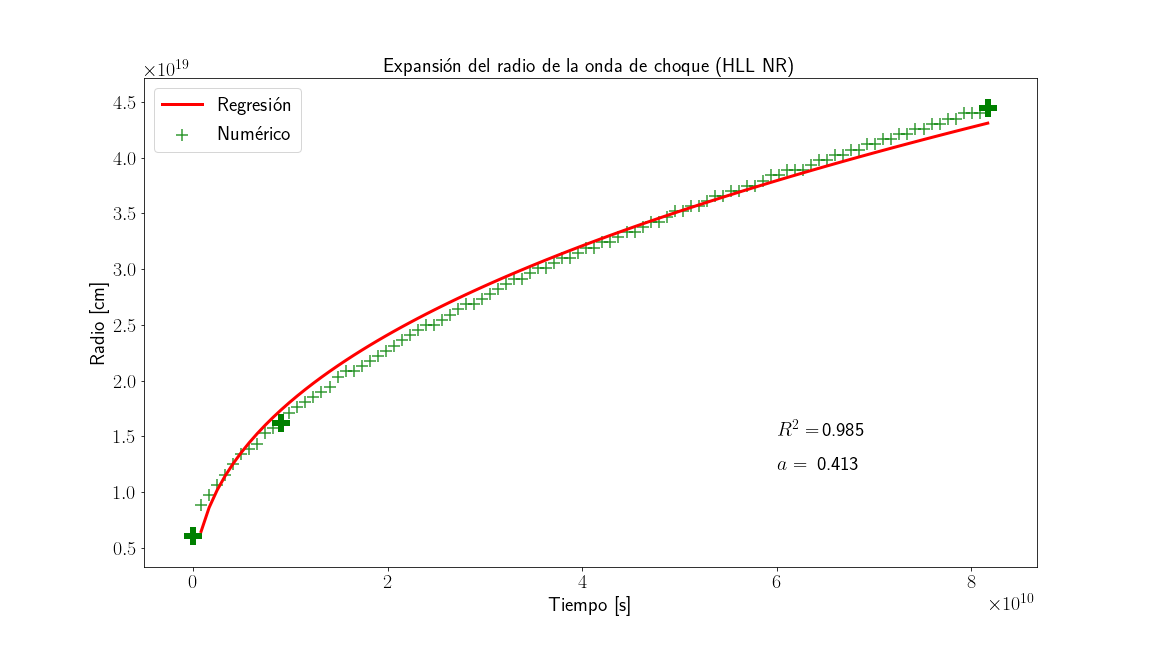
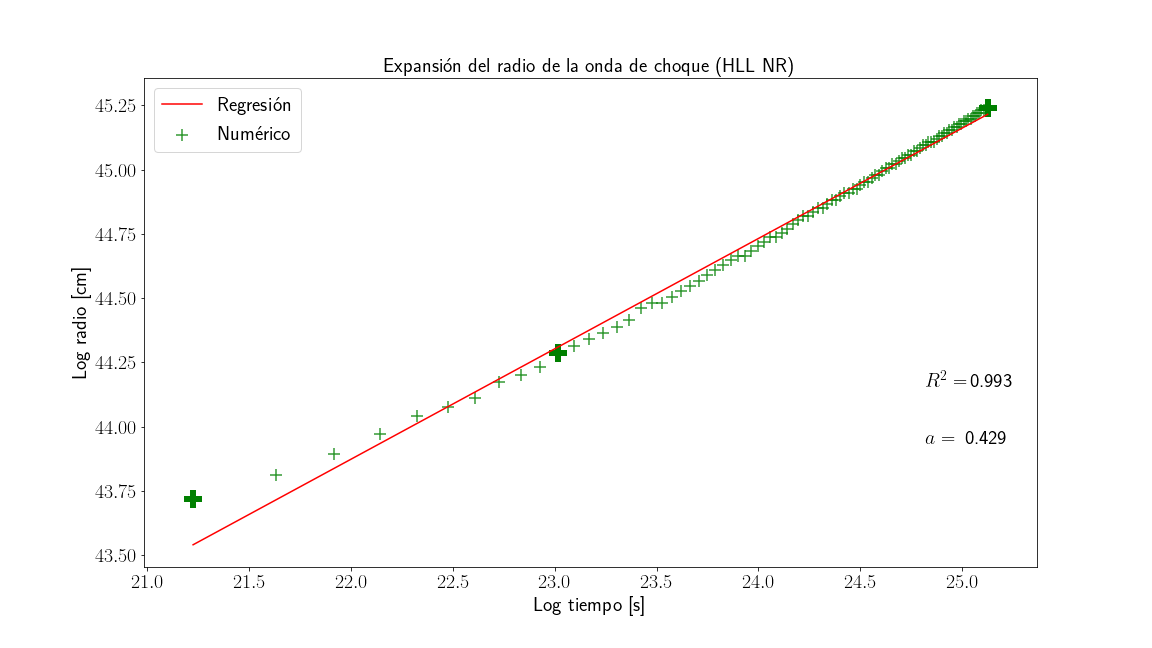
Correción de la mayoría de dudas que tenía así como el cambio de gráficas logaritmicas de sedov

diff --git a/main.tex b/main.tex
@@ -401,8 +401,8 @@ a presión constante $C_p$ y calor específico a volumen constante $C_v$. Lo den
 Los métodos que emplearon fueron el método de HLL y HLLC (para más información ver la sección \ref{secc:HLL}). El tiempo de integración fue de $t = 80$ con condiciones de frontera \emph{outflow} excepto donde se 
 inyecta el jet. La velocidad de avance promedio  del jet fue de 0.39 con una resolución de 240$\times$700 píxeles. 
 
-La figura de arriba de \ref{fig:jet_mignone} muestra la morfología del jet a t=40, mientras que la de abajo a t=80. En ambas figuras el panel de arriba (i.e. el dominio positivo en Y) muestra el 
-caso cuando la simulación se hizo utilizando el esquema HLLC. Por otro lado, el panel del abajo (i.e. el dominio negativo en Y) muestra el caso cuando se usó el esquema HLL.
+El panel superior de la Figura \ref{fig:jet_mignone} muestra la morfología del jet a t=40, mientras que la de abajo a t=80. En la parte superior de ambos páneles (i.e. el dominio positivo en Y) muestra el 
+caso cuando la simulación se hizo utilizando el esquema HLLC. Por otro lado, la parte de abajo (i.e. el dominio negativo en Y) muestra el caso cuando se usó el esquema HLL.
 \begin{figure}
   \begin{center}
     \includegraphics[width=0.5\textwidth]{Figuras/capitulo_1/jet_mignone.png}
@@ -898,8 +898,9 @@ los valores de salida se reasignan a otras llamadas \emph{qpp}. Se tienen que re
 \end{lstlisting}
 
 \noindent La subrutina que se mencionan en esta sección recibirá las variables conservadas
-y devolverá las primitivas. La subrutina \emph{newrap} se usará en particular 
-(ver apéndice \ref{ap_newrap}) para resolver la ecuación \ref{eq_Newton_Raphson}.
+y devolverá las primitivas. La subrutina \emph{newrap}  
+se usará en particular 
+(ver apéndice \ref{ap_newrap}) para resolver la ecuación \ref{eq_Newton_Raphson}.  Las variables primitivas en el modúlo relativista fueron encontradas siguiendo la misma metodología que el código Mezcal \citep{Colle2012}.
 
 \begin{lstlisting} [frame=single]
   
@@ -2338,22 +2339,22 @@ la densidad decae a $\rho \approx 10^{-24} \text{g} \, \text{cm}^{-3}$.
 \end{figure}
 
 Para verificar que el código HD estaba reproduciendo correctamente la solución analítica de Sedov-Taylor se comprobó que el radio de la onda de expansión de la simulación siguiese la solución analítica 
-dada en la ecuación \ref{eq_Radio_proporcional}, esto es, que el radio de la onda creciera como $r\propto t^{2/5}$. La Figura \ref{fig:Expansion_HLL_NR} muestra la evolución del radio de la onda en función del tiempo (verde) así como 
-la curva que mejor se le ajusta (rojo). La curva que mejor se ajusta a los datos resultó ser $r(t) = t^{0.413}$. El coeficiente de determinación fue $R^2= 0.985$ lo cual nos indica que el modelo se ajusta muy bien a 
+dada en la ecuación \ref{eq_Radio_proporcional}, esto es, que el radio de la onda creciera como $r\propto t^{2/5}$. La Figura \ref{fig:Expansion_HLL_NR} muestra la evolución logaritmica del radio de la onda en función del tiempo (verde) así como 
+la curva que mejor se le ajusta (rojo). La curva que mejor se ajusta a los datos resultó ser $\log(r(t))= 0.429t+34.43$ lo que nos indica que el radio crece como $r(t) \propto t^{0.429}$. El coeficiente de determinación fue $R^2= 0.993$ lo cual nos indica que el modelo se ajusta muy bien a 
 los datos de la simulación. Al comparar nuestro modelo con la teoría podemos notar una discrepancia del 5 \%, y por ende podemos concluir que el problema de Sedov-Taylor fue resuelto correctamente por el código HD.
 
 \begin{figure}
   \centering
   \includegraphics[width=1\textwidth]{./Figuras/capitulo_3/prueba_2d_newtoniana/Expansion_HLL_NR_res_1000.png}
-    \caption{Crecimiento del radio de la onda de choque en función del tiempo. Las cruces verdes muestran la evolución del radio de la onda de choque en la simulación. La línea sólida roja muestra la curva que mejor 
-    se ajusta a los datos: $r(t) = t^{0.413}$ (con un coeficiente de determinación $R^2= 0.985$). Las cruces más remarcadas corresponden a los radios que se muestran en la Figura \ref{fig:prueba_2d_newtoniana}.}
+    \caption{Crecimiento logarítmico del radio de la onda de choque en función del tiempo. Las cruces verdes muestran la evolución del radio de la onda de choque en la simulación. La línea sólida roja muestra la curva que mejor 
+    se ajusta a los datos: $\log(r(t))= 0.429t+34.43$ (con un coeficiente de determinación $R^2= 0.993$). Las cruces más remarcadas corresponden a los radios que se muestran en la Figura \ref{fig:prueba_2d_newtoniana}.}
     \label{fig:Expansion_HLL_NR}
 \end{figure}
 
 \subsection{Caso relativista} \label{subsec:caso_relativista_2d}
 Para verificar que el código RHD funciona correctamente en 2D se hizo una prueba de una onda de choque relativista en 2 dimensiones y se verificó que se comporta como la solución analítica auto-similar de 
 una prueba de un tubo de choque bidimensional. El dominio espacial fue $x, y \in [0,1]\times[0,1] \, \text{cm}$, el radio de la 
-onda $r = 0.5 \, \text{cm}$. Se consideró un índice adiabático $\Gamma = 4/3$, y una resolución de 1000x1000 píxeles. Los valores que hay dentro de la onda bidimensional, así como 
+onda $r = 0.5 \, \text{cm}$. Se consideró un índice adiabático $\Gamma = 4/3$, y una resolución de 1000$\times$1000 píxeles. Los valores que hay dentro de la onda bidimensional, así como 
 los que el medio ambiente, se muestran en el cuadro \ref{Cuadro_parametros_choque_2D}. 
 \begin{table}[htbp]
   \begin{center}
@@ -2828,11 +2829,11 @@ código en su versión actual gasta muchos recursos. Las posibles mejorías se l
     y que estar resolviendo todo el dominio computacional con una resolución sumamente fina genera un alto costo computacional, es necesaria la implementación de una malla cuya resolución se adapte al problema 
     (i.e. resolución muy fina en donde haya discontinuidades, ondas de choques, turbulencia; y resolución poco fina en el resto del dominio). 
 
-    \item \textbf{Computo en paralelo}: Algo que realmente podría hacer más  rápido el código es hacerlo paralelo, es decir, que se puedan hacer varios procesos al mismo tiempo y no, necesariamente hacerlos 
+    \item \textbf{Computo en paralelo}: Algo que realmente podría hacer más rápido el código es hacerlo paralelo, es decir, que se puedan hacer varios procesos al mismo tiempo y no, necesariamente hacerlos 
     secuencialmente y poder adaptarlo a la malla que generamos.
 
     \item \textbf{Paradigma}: Si bien Fortran es una gran herramienta para el cómputo científico, es difícil darle mantenimiento al mismo programa, ya que tiene un paradigma imperativo, por lo que usar un paradigma 
-    orientado a objetos tal como en Julia podría facilitar el mejoramiento del código implementando las anteriores características ya mencionadas.
+    orientado a objetos podría facilitar el mejoramiento del código implementando las anteriores características ya mencionadas.
 \end{itemize}
 %----------------------------------------------------------------------------------------------
 
@@ -3459,6 +3460,9 @@ Clarke, C., Carswell, B., 2007. Blast waves. Principles of Astrophysical Fluid D
 
 \bibitem[Clarke et al. (2007)]{Clarke2007}Clarke, C., \& Carswell, B. (2007). The fluid equations. In Principles of Astrophysical Fluid Dynamics (pp. 12-19). 
 Cambridge: Cambridge University Press. doi:10.1017/CBO9780511813450.003
+
+\bibitem[De Colle et al.(2012)]{Colle2012} De Colle, F., Granot, J., López-Cámara, D., Ramirez-Ruiz, E., 2012. Gamma-ray burst dynamics and afterglow radiation from adaptive mesh refinement, special relativistic hydrodynamic simulations. 
+The Astrophysical Journal 746, 122. doi:10.1088/0004-637x/746/2/122  
 
 \bibitem[De Colle et al.(2012)]{2012ApJ...751...57D} De Colle, F., Ramirez-Ruiz, E., Granot, J., Lopez-Camara, D., 2012. Simulations of gamma-ray burst jets in a stratified external medium: Dynamics, afterglow light 
 curves, jet breaks, and radio calorimetry. The Astrophysical Journal 751, 57. doi:10.1088/0004-637x/751/1/57 
